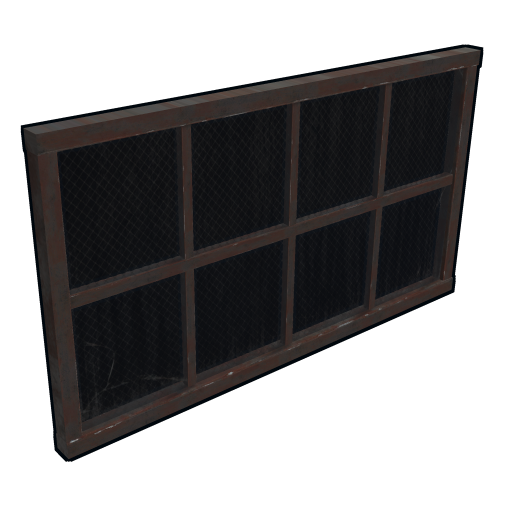
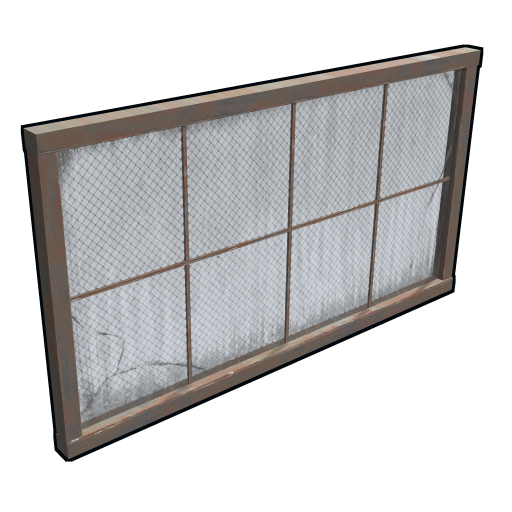
fix

diff --git a/index.html b/index.html
@@ -46,12 +46,12 @@
         color: var(--text-bright);
         font-family: var(--font-ui);
         min-height: 100vh;
-        height: 100vh; /* Přidej toto */
-        overflow: hidden; /* Přidej toto - zamezí scrollování celé stránky */
+        height: 100vh;
+        overflow: hidden;
         display: flex;
         flex-direction: column;
         align-items: center;
-        padding: 0 16px 20px; /* Zmenšil jsem spodní padding */
+        padding: 0 16px 20px;
         gap: 20px;
       }
       body::before {
@@ -409,10 +409,10 @@
         display: grid;
         grid-template-columns: repeat(4, 1fr);
         gap: 6px;
-        max-height: 250px; /* Omezení výšky gridu pro zapnutí scrollování */
-        overflow-y: auto; /* Zapne scrollování, pokud je obsah větší */
-        padding-right: 4px; /* Místo pro scrollbar */
-        padding-bottom: 4px; /* Aby se neseřízly stíny na spodku */
+        max-height: 250px;
+        overflow-y: auto;
+        padding-right: 4px;
+        padding-bottom: 4px;
         margin-right: -4px;
       }
 
@@ -884,7 +884,7 @@
         text-shadow: 0 0 20px rgba(138, 125, 110, 0.35);
       }
 
-      /* Hlavní scrollbar pro stránku */
+      /* Hlavní scrollbar pro levý panel */
       ::-webkit-scrollbar {
         width: 6px;
       }
@@ -1094,6 +1094,11 @@
           material: "Metal",
           img: "./images/metal-barricade.png",
         },
+        "Tool Cupboard": {
+          hp: 100,
+          material: "Wooden",
+          img: "./images/tool-cupboard.png",
+        },
       };
 
       const EXP = [
@@ -1102,49 +1107,87 @@
           short: "C4",
           img: "./images/c4.png",
           cost: { s: 2200, m: 200, c: 3000 },
-          dmg: { Wooden: 495, Stone: 275, Metal: 275, Armored: 275 },
+          dmg: {
+            Wooden: 495,
+            Stone: 275,
+            Metal: 275,
+            Armored: 275,
+            "Garage Door": 440,
+            "Tool Cupboard": 100,
+          },
         },
         {
           name: "Rocket",
           short: "Rocket",
           img: "./images/rocket.png",
           cost: { s: 1400, m: 100, c: 1950 },
-          dmg: { Wooden: 247.6, Stone: 137.6, Metal: 137.6, Armored: 137.6 },
+          dmg: {
+            Wooden: 247.6,
+            Stone: 137.6,
+            Metal: 137.6,
+            Armored: 137.6,
+          },
         },
         {
           name: "Explosive 5.56 Rifle Ammo",
           short: "Exp.Ammo",
           img: "./images/ammo-rifle-explosive.png",
           cost: { s: 25, m: 5, c: 30 },
-          dmg: { Wooden: 5, Stone: 3.937, Metal: 2.5, Armored: 2.5 },
+          dmg: {
+            Wooden: 5,
+            Stone: 3.937,
+            Metal: 2.5,
+            Armored: 2.5,
+          },
         },
         {
           name: "High Velocity Rocket",
           short: "HV Rocket",
           img: "./images/ammo-rocket-hv.png",
           cost: { s: 200, m: 0, c: 300 },
-          dmg: { Wooden: 90, Stone: 31, Metal: 31, Armored: 31 },
+          dmg: {
+            Wooden: 90,
+            Stone: 31,
+            Metal: 31,
+            Armored: 31,
+          },
         },
         {
           name: "F1 Grenade",
           short: "F1 Gren.",
           img: "./images/grenade-f1.png",
           cost: { s: 60, m: 25, c: 90 },
-          dmg: { Wooden: 2, Stone: 2, Metal: 1, Armored: 1 },
+          dmg: {
+            Wooden: 2,
+            Stone: 2,
+            Metal: 1,
+            Armored: 1,
+          },
         },
         {
           name: "Beancan Grenade",
           short: "Beancan",
           img: "./images/grenade-beancan.png",
           cost: { s: 120, m: 20, c: 180 },
-          dmg: { Wooden: 19.5, Stone: 11, Metal: 9, Armored: 9 },
+          dmg: {
+            Wooden: 19.5,
+            Stone: 11,
+            Metal: 9,
+            Armored: 9,
+          },
         },
         {
           name: "Satchel",
           short: "Satchel",
           img: "./images/explosive-satchel.png",
           cost: { s: 480, m: 80, c: 720 },
-          dmg: { Wooden: 91.5, Stone: 51.6, Metal: 43.5, Armored: 43.5 },
+          dmg: {
+            Wooden: 91.5,
+            Stone: 51.6,
+            Metal: 43.5,
+            Armored: 43.5,
+            "Tool Cupboard": 100,
+          },
         },
       ];
 
@@ -1162,7 +1205,14 @@
       /* ── ALGORITHM (DP) ─────────────────────────────────────────────────── */
       function cheapestCombo(totalHp, structureName, exps) {
         const material = W[structureName].material;
-        const viable = exps.filter((e) => e.dmg[material] > 0);
+
+        // Funkce získá specifické poškození pro předmět, pokud existuje. Jinak bere materiál.
+        const getDmg = (e) =>
+          e.dmg[structureName] !== undefined
+            ? e.dmg[structureName]
+            : e.dmg[material];
+
+        const viable = exps.filter((e) => getDmg(e) > 0);
 
         if (!viable.length) return [];
         const MAX = Math.ceil(totalHp * 1.5);
@@ -1172,7 +1222,7 @@
         for (let d = 0; d <= MAX; d++) {
           if (!dp[d]) continue;
           for (const e of viable) {
-            const dmg = Math.round(e.dmg[material] * 100) / 100;
+            const dmg = Math.round(getDmg(e) * 100) / 100;
             const newDmg = dp[d].dmg + dmg;
             const idx = Math.min(MAX, Math.floor(newDmg));
             const ns = dp[d].s + e.cost.s;
@@ -1285,10 +1335,12 @@
         const exps = EXP.filter((e) => selExp.has(e.name));
         const combo = cheapestCombo(totalHp, selWall, exps);
 
-        const totalDmg = combo.reduce(
-          (s, c) => s + c.exp.dmg[W[selWall].material] * c.qty,
-          0,
-        );
+        const getDmg = (e) =>
+          e.dmg[selWall] !== undefined
+            ? e.dmg[selWall]
+            : e.dmg[W[selWall].material];
+
+        const totalDmg = combo.reduce((s, c) => s + getDmg(c.exp) * c.qty, 0);
         const dmgDone = Math.min(totalDmg, totalHp);
         const pct = Math.min(100, (dmgDone / totalHp) * 100);
         const destroyed = totalDmg >= totalHp;